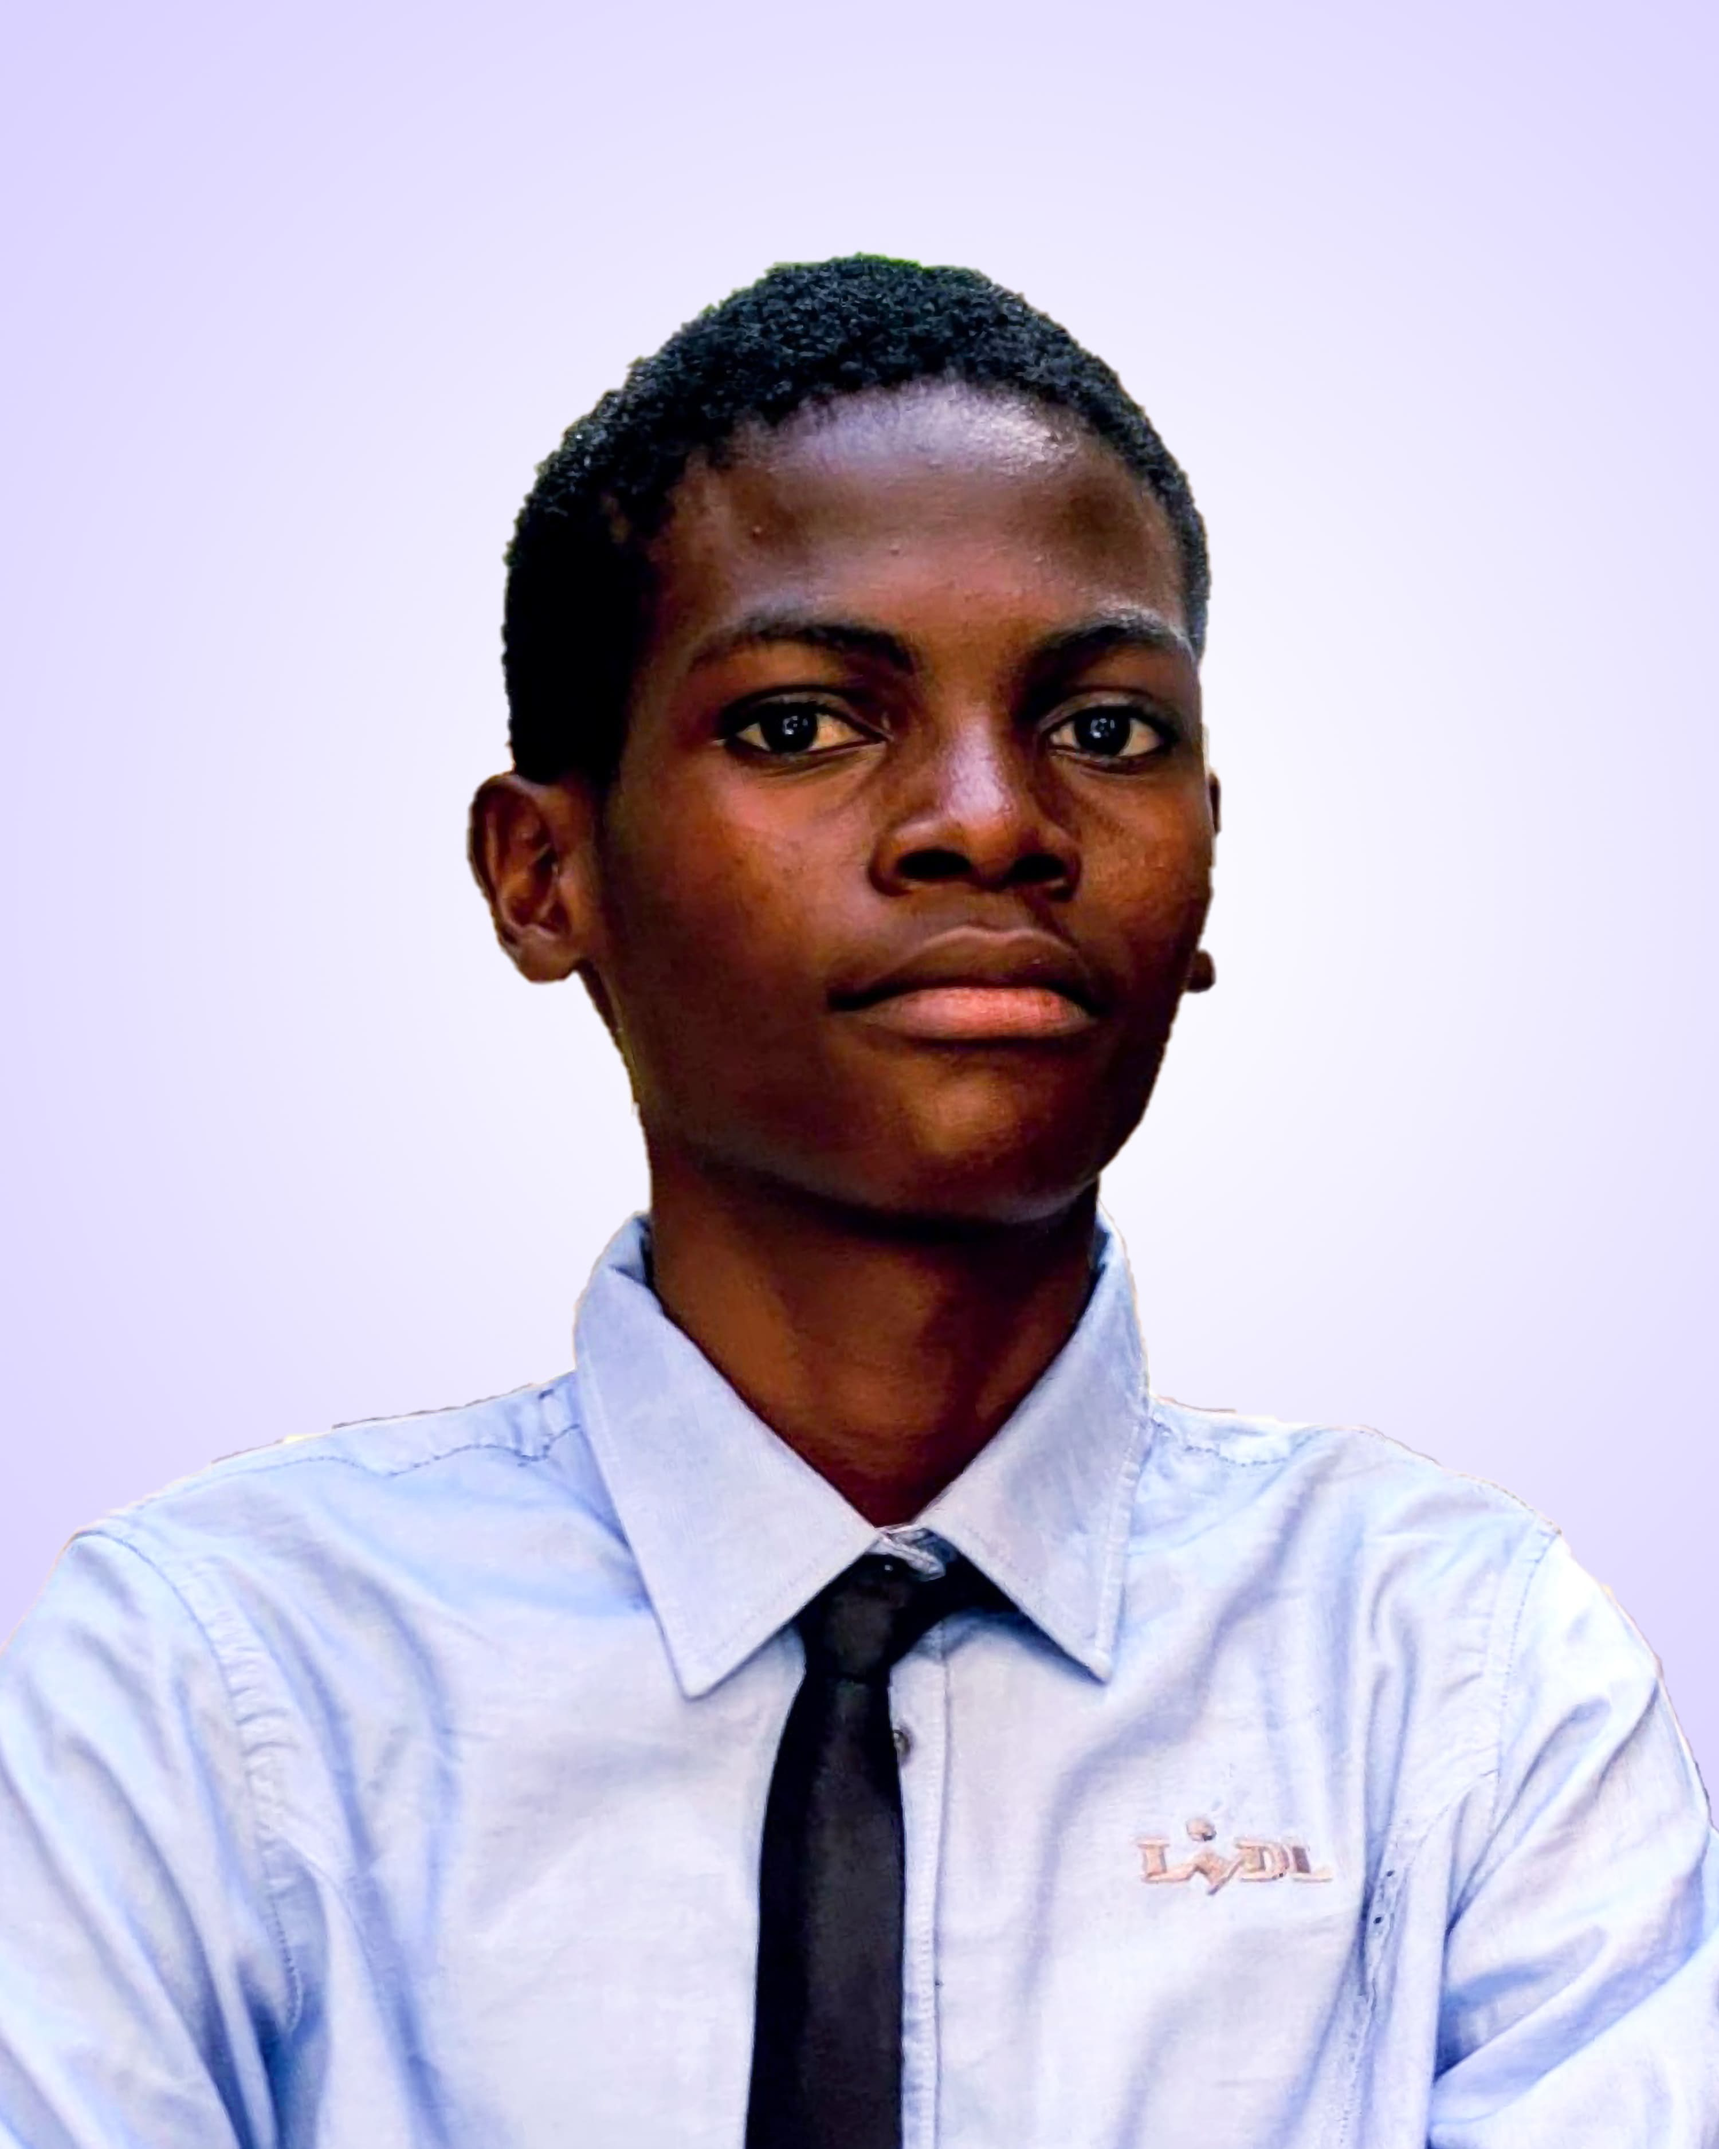
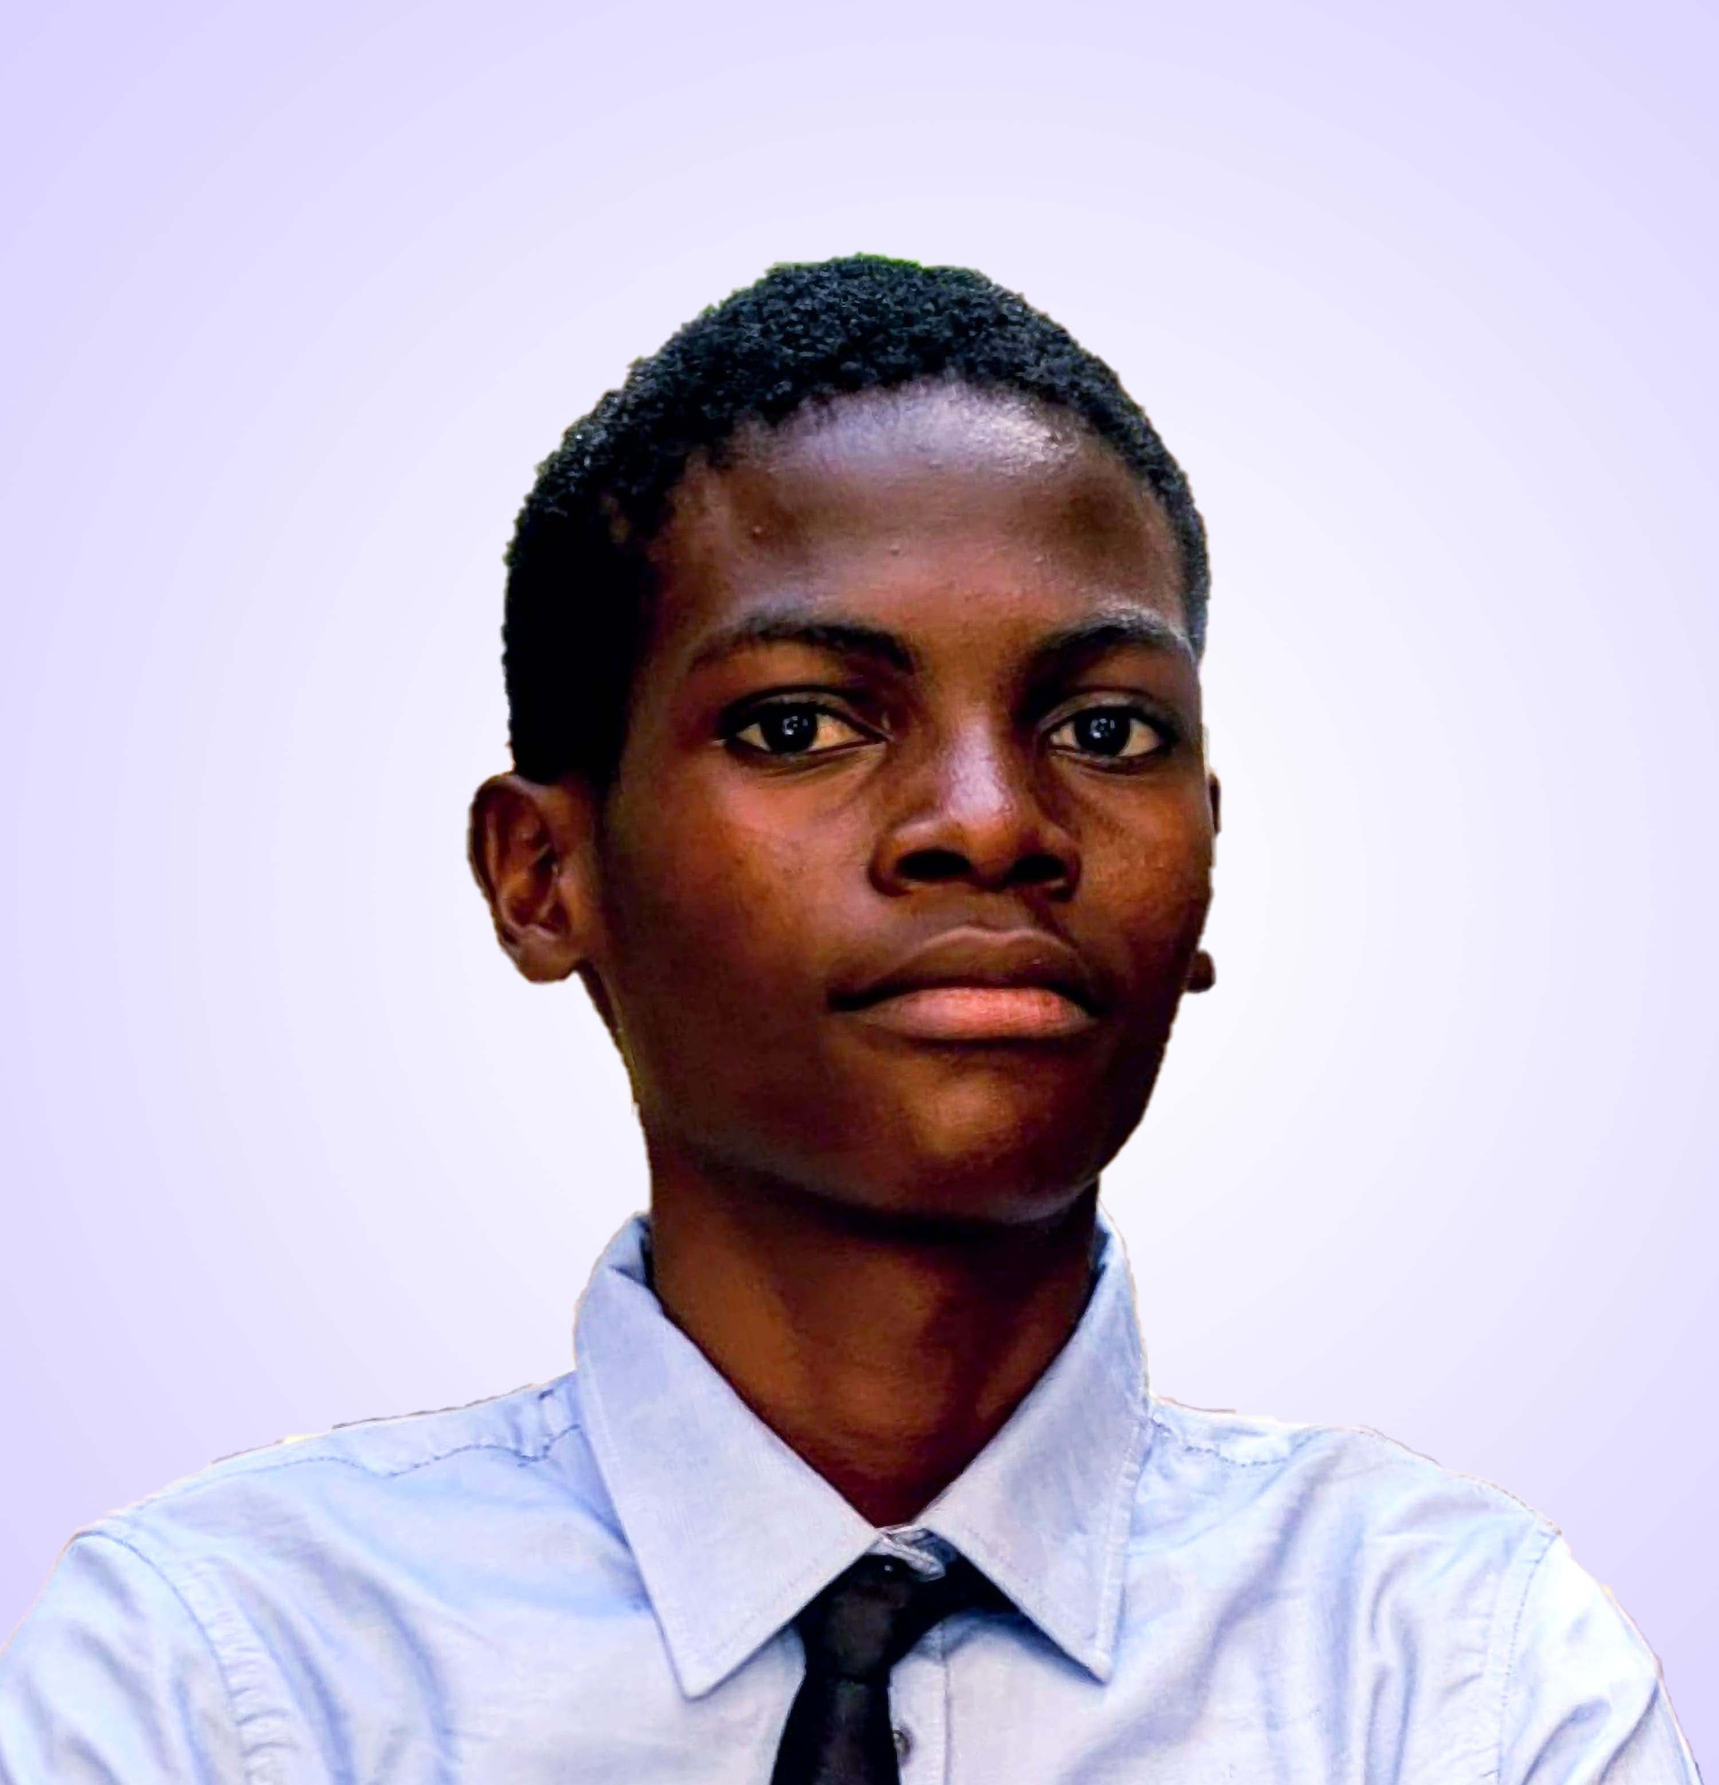
Adjust blog author image dimensions

diff --git a/docs/guides/Setting-Up-Git-and-Repository-for-Beginners-A-Tutorial.md b/docs/guides/Setting-Up-Git-and-Repository-for-Beginners-A-Tutorial.md
@@ -149,7 +149,9 @@ Here, `mkdir` creates the `my-repo` folder, `cd` moves into it, and `git init` i
 
 To confirm the initialization, check for this message:
 
-`Initialized empty Git repository in .../my-repo/.git/`
+```
+Initialized empty Git repository in .../my-repo/.git/
+```
 
 ![](./images/Image2.PNG)
 
@@ -246,11 +248,10 @@ Run `git status`
 
 You will see something similiar to:
 
-`Untracked files:`
-
-      `(use "git add <file>..." to include in what will be committed)`
-
-               `README.md`
+``` Untracked files:
+(use "git add <file>..." to include in what will be committed)
+README.md
+```
 
 The file has changed, but the change is still only in your working directory.
 
@@ -266,11 +267,11 @@ Run `git status` again
 
 The output should now show something similar to:
 
-`Changes to be committed:`
-
-      `(use "git rm --cached <file>..." to unstage)`
-
-            `new file:   README.md`
+```
+Changes to be committed:
+(use "git rm --cached <file>..." to unstage)
+new file:   README.md
+```
 
 ![](./images/Image5.PNG)
 
@@ -320,9 +321,10 @@ Run `git commit -m "Create README file"`
 
 Git will display output similar to:
 
-`[master 47bd4c3] Create README file`
-
-    `1 file changed, 0 insertions(+), 0 deletions(-)`
+```
+[master 47bd4c3] Create README file
+1 file changed, 0 insertions(+), 0 deletions(-)\
+```
 
 ![](./images/Image7.PNG)
 
